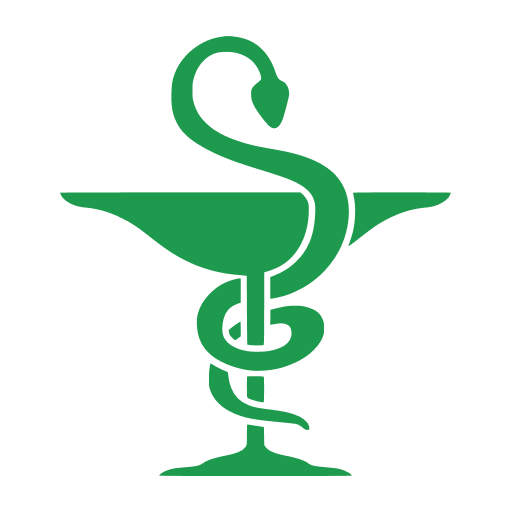
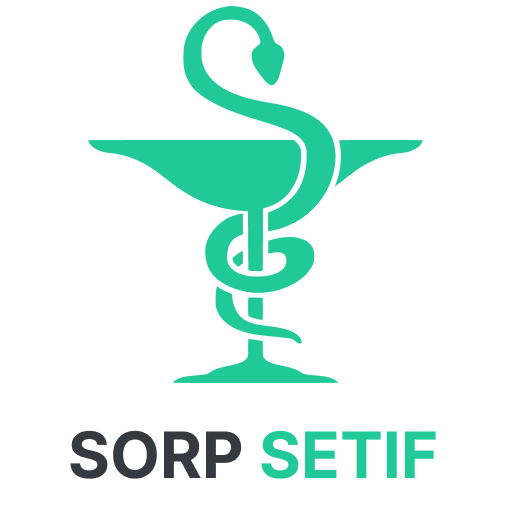
alter sorp temp

Changed region(s): [[0.125, 0.0, 0.875, 0.9375]]

diff --git a/SORP/index.html b/SORP/index.html
@@ -10,11 +10,11 @@
   <!-- Site Metas -->
   <meta name="keywords" content="" />
   <meta name="description" content="" />
-  <meta name="author" content="" />
+  <meta name="author" content="www.bzquatre.com" />
 
   <title>SORP Setif</title>
 
-
+   <link rel="icon" href="images/sorp-setif.png"/>
   <!-- bootstrap core css -->
   <link rel="stylesheet" type="text/css" href="css/bootstrap.css" />
 
@@ -57,10 +57,10 @@
                 Email : sorp-setif@gmail.com
               </span>
             </a>
-            <a href="">
+            <a href="https://maps.app.goo.gl/TAvoZo1tS6bJdescA">
               <i class="fa fa-map-marker" aria-hidden="true"></i>
               <span>
-                Location
+                Location : Setif
               </span>
             </a>
           </div>
@@ -70,7 +70,7 @@
         <div class="container-fluid">
           <nav class="navbar navbar-expand-lg custom_nav-container ">
             <a class="navbar-brand" href="index.html">
-              <img src="images/sorp-setif.png" width="50px" alt="">
+              <img src="images/sorp-setif.png" alt="">
             </a>
 
 
@@ -100,25 +100,6 @@
                     <a class="nav-link" href="contact.html">Contact Us</a>
                   </li>
                 </ul>
-              </div>
-              <div class="quote_btn-container">
-                <a href="">
-                  <i class="fa fa-user" aria-hidden="true"></i>
-                  <span>
-                    Login
-                  </span>
-                </a>
-                <a href="">
-                  <i class="fa fa-user" aria-hidden="true"></i>
-                  <span>
-                    Sign Up
-                  </span>
-                </a>
-                <form class="form-inline">
-                  <button class="btn  my-2 my-sm-0 nav_search-btn" type="submit">
-                    <i class="fa fa-search" aria-hidden="true"></i>
-                  </button>
-                </form>
               </div>
             </div>
           </nav>
@@ -196,13 +177,15 @@
                   <div class="detail-box">
                     
                     <h1>
-                      SORP <br>
+                      SORP 
                       <span>
                         Alger
                       </span>
                     </h1>
                     <p>
-                      when looking at its layout. The point of using Lorem Ipsum is that it has a more-or-less normal distribution of letters, as opposed to
+                      La Section Ordinale Régionale des Pharmaciens d'Alger organise Mercredi 1er Décembre à l'hôtel EL AURASSi, une journée sous le thème de
+                      " Avenir De La Pharmacie : Nouveaux Défis de l'Exercice"
+                      Intéressé ? Consultez notre programme
                     </p>
                     <a href="">
                       Contact Us
@@ -211,7 +194,7 @@
                 </div>
                 <div class="col-md-6">
                   <div class="img-box">
-                    <img src="images/slider-img.jpg" alt="">
+                    <img src="images/262465349_108322415019921_6791646449481018385_n.jpg" alt="">
                   </div>
                 </div>
               </div>
@@ -318,18 +301,18 @@
       <div class="row">
         <div class="col-md-6 ">
           <div class="img-box">
-            <img src="images/about-img.jpg" alt="">
+            <img src="images/sorp-setif.png" alt="">
           </div>
         </div>
         <div class="col-md-6">
           <div class="detail-box">
             <div class="heading_container">
               <h2>
-                About <span>SORP SETIF</span>
+                About <span>SORP</span>
               </h2>
             </div>
             <p>
-              has a more-or-less normal distribution of letters, as opposed to using 'Content here, content here', making it look like readable English. Many desktop publishing packages and web page editors has a more-or-less normal distribution of letters, as opposed to using 'Content here, content here', making it look like readable English. Many desktop publishing packages and web page editors
+              Le conseil de l’ordre des pharmaciens a été institué par décret exécutif n° 92-278 du 6 juillet 1992 Le conseil de l’ordre des pharmaciens a été institué par décret exécutif n° 92-278 du 6 juillet 1992 Le conseil de l’ordre des pharmaciens a été institué par décret exécutif n° 92-278 du 6 juillet 1992
             </p>
             <a href="">
               Read More
@@ -451,10 +434,10 @@
               </div>
               <div class="detail-box">
                 <h5>
-                  Hennry
+                  KABICHE  Karim
                 </h5>
                 <h6>
-                  MBBS
+                  Le président
                 </h6>
                 <div class="social_box">
                   <a href="">
@@ -480,10 +463,10 @@
               </div>
               <div class="detail-box">
                 <h5>
-                  Jenni
+                  IDIR  Meziane
                 </h5>
                 <h6>
-                  MBBS
+                  Secrétaire Général
                 </h6>
                 <div class="social_box">
                   <a href="">
@@ -509,10 +492,10 @@
               </div>
               <div class="detail-box">
                 <h5>
-                  Morco
+                  BOUDIA  Nasser
                 </h5>
                 <h6>
-                  MBBS
+                  Membre élu
                 </h6>
                 <div class="social_box">
                   <a href="">
@@ -655,7 +638,7 @@
         </div>
         <div class="col-md-5">
           <div class="img-box">
-            <img src="images/contact-img.jpg" alt="">
+            <img src="images/contact-img.png" alt="">
           </div>
         </div>
       </div>
